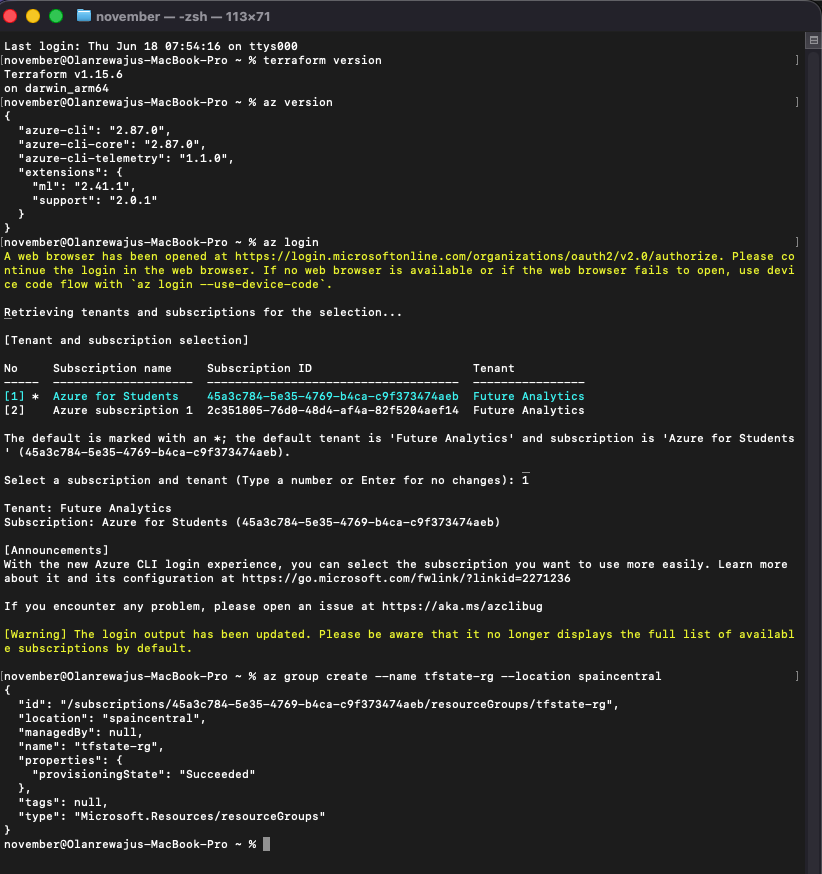
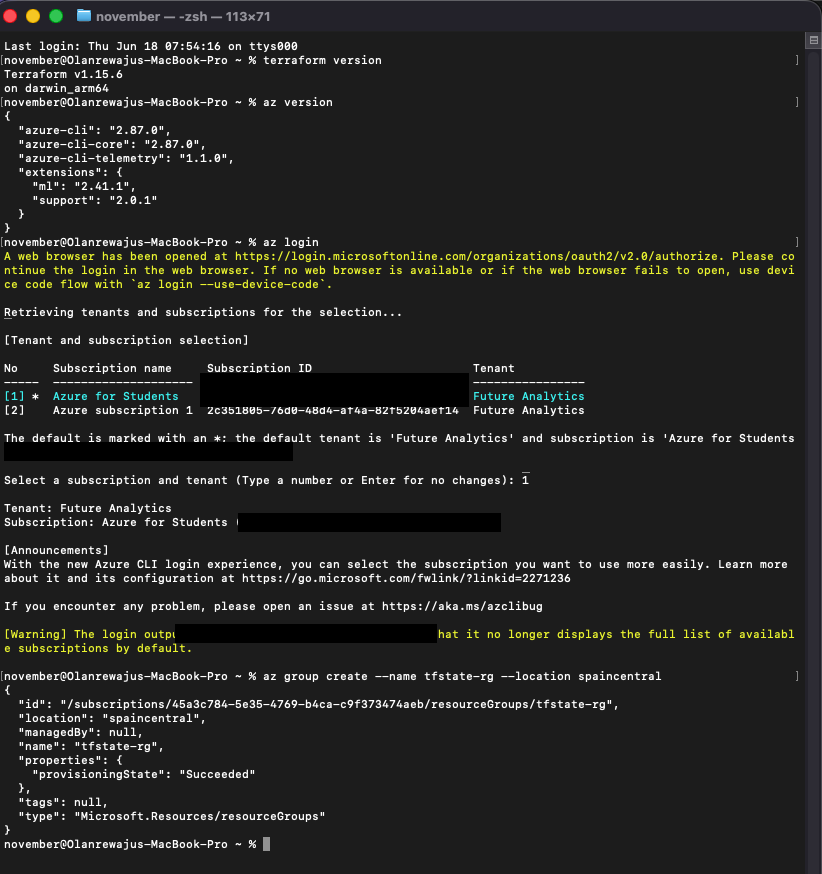
Update README: enhance project structure visualization and add initial setup screenshot

diff --git a/README.md b/README.md
@@ -30,35 +30,24 @@ See [`docs/tasks.md`](./docs/tasks.md) for the full build checklist.
 
 ## Structure
 
+```text
 az104-landing-zone/
-
 ├── main.tf            # Root module — orchestrates all child modules
-
 ├── variables.tf       # Root-level input variables
-
 ├── outputs.tf         # Root-level outputs (frontend/backend URLs, Cosmos DB endpoint, Key Vault URI)
-
 ├── providers.tf       # Provider configuration (azurerm, random)
-
 ├── backend.tf         # Remote state configuration (Azure Storage)
-
 ├── environments/
 │   ├── dev.tfvars     # Environment-specific values (gitignored)
 │   └── prod.tfvars    # Environment-specific values (gitignored)
-
 ├── modules/
-
 │   ├── networking/    # VNets, subnets, NSGs, peering
-
 │   ├── compute/       # App Services, Managed Identities, Key Vault access
-
 │   ├── database/      # Cosmos DB account (Core/SQL API, free tier)
-
 │   └── governance/    # Azure Policy assignments
-
 └── docs/
-
-└── tasks.md       # Build checklist
+    └── tasks.md       # Build checklist
+```
 
 ## Why this project
 
@@ -87,6 +76,10 @@ terraform apply -var-file="environments/dev.tfvars"
 ```
 
 Note: `environments/dev.tfvars` and `environments/prod.tfvars` are gitignored (not included in this repo) since they contain environment-specific values, including networking ranges and NSG rule definitions. Create your own `.tfvars` file under `environments/` based on the variables declared in root `variables.tf`.
+
+**Initial setup — authenticating with Azure CLI and creating the remote state resource group:**
+
+![az login and tfstate-rg resource group creation](images/Screenshot%202026-06-22%20at%2017.57.16.png)
 
 - **Frontend uses a second App Service rather than Azure Static Web Apps.**
   This subscription is on the Azure for Students tier, which enforces a